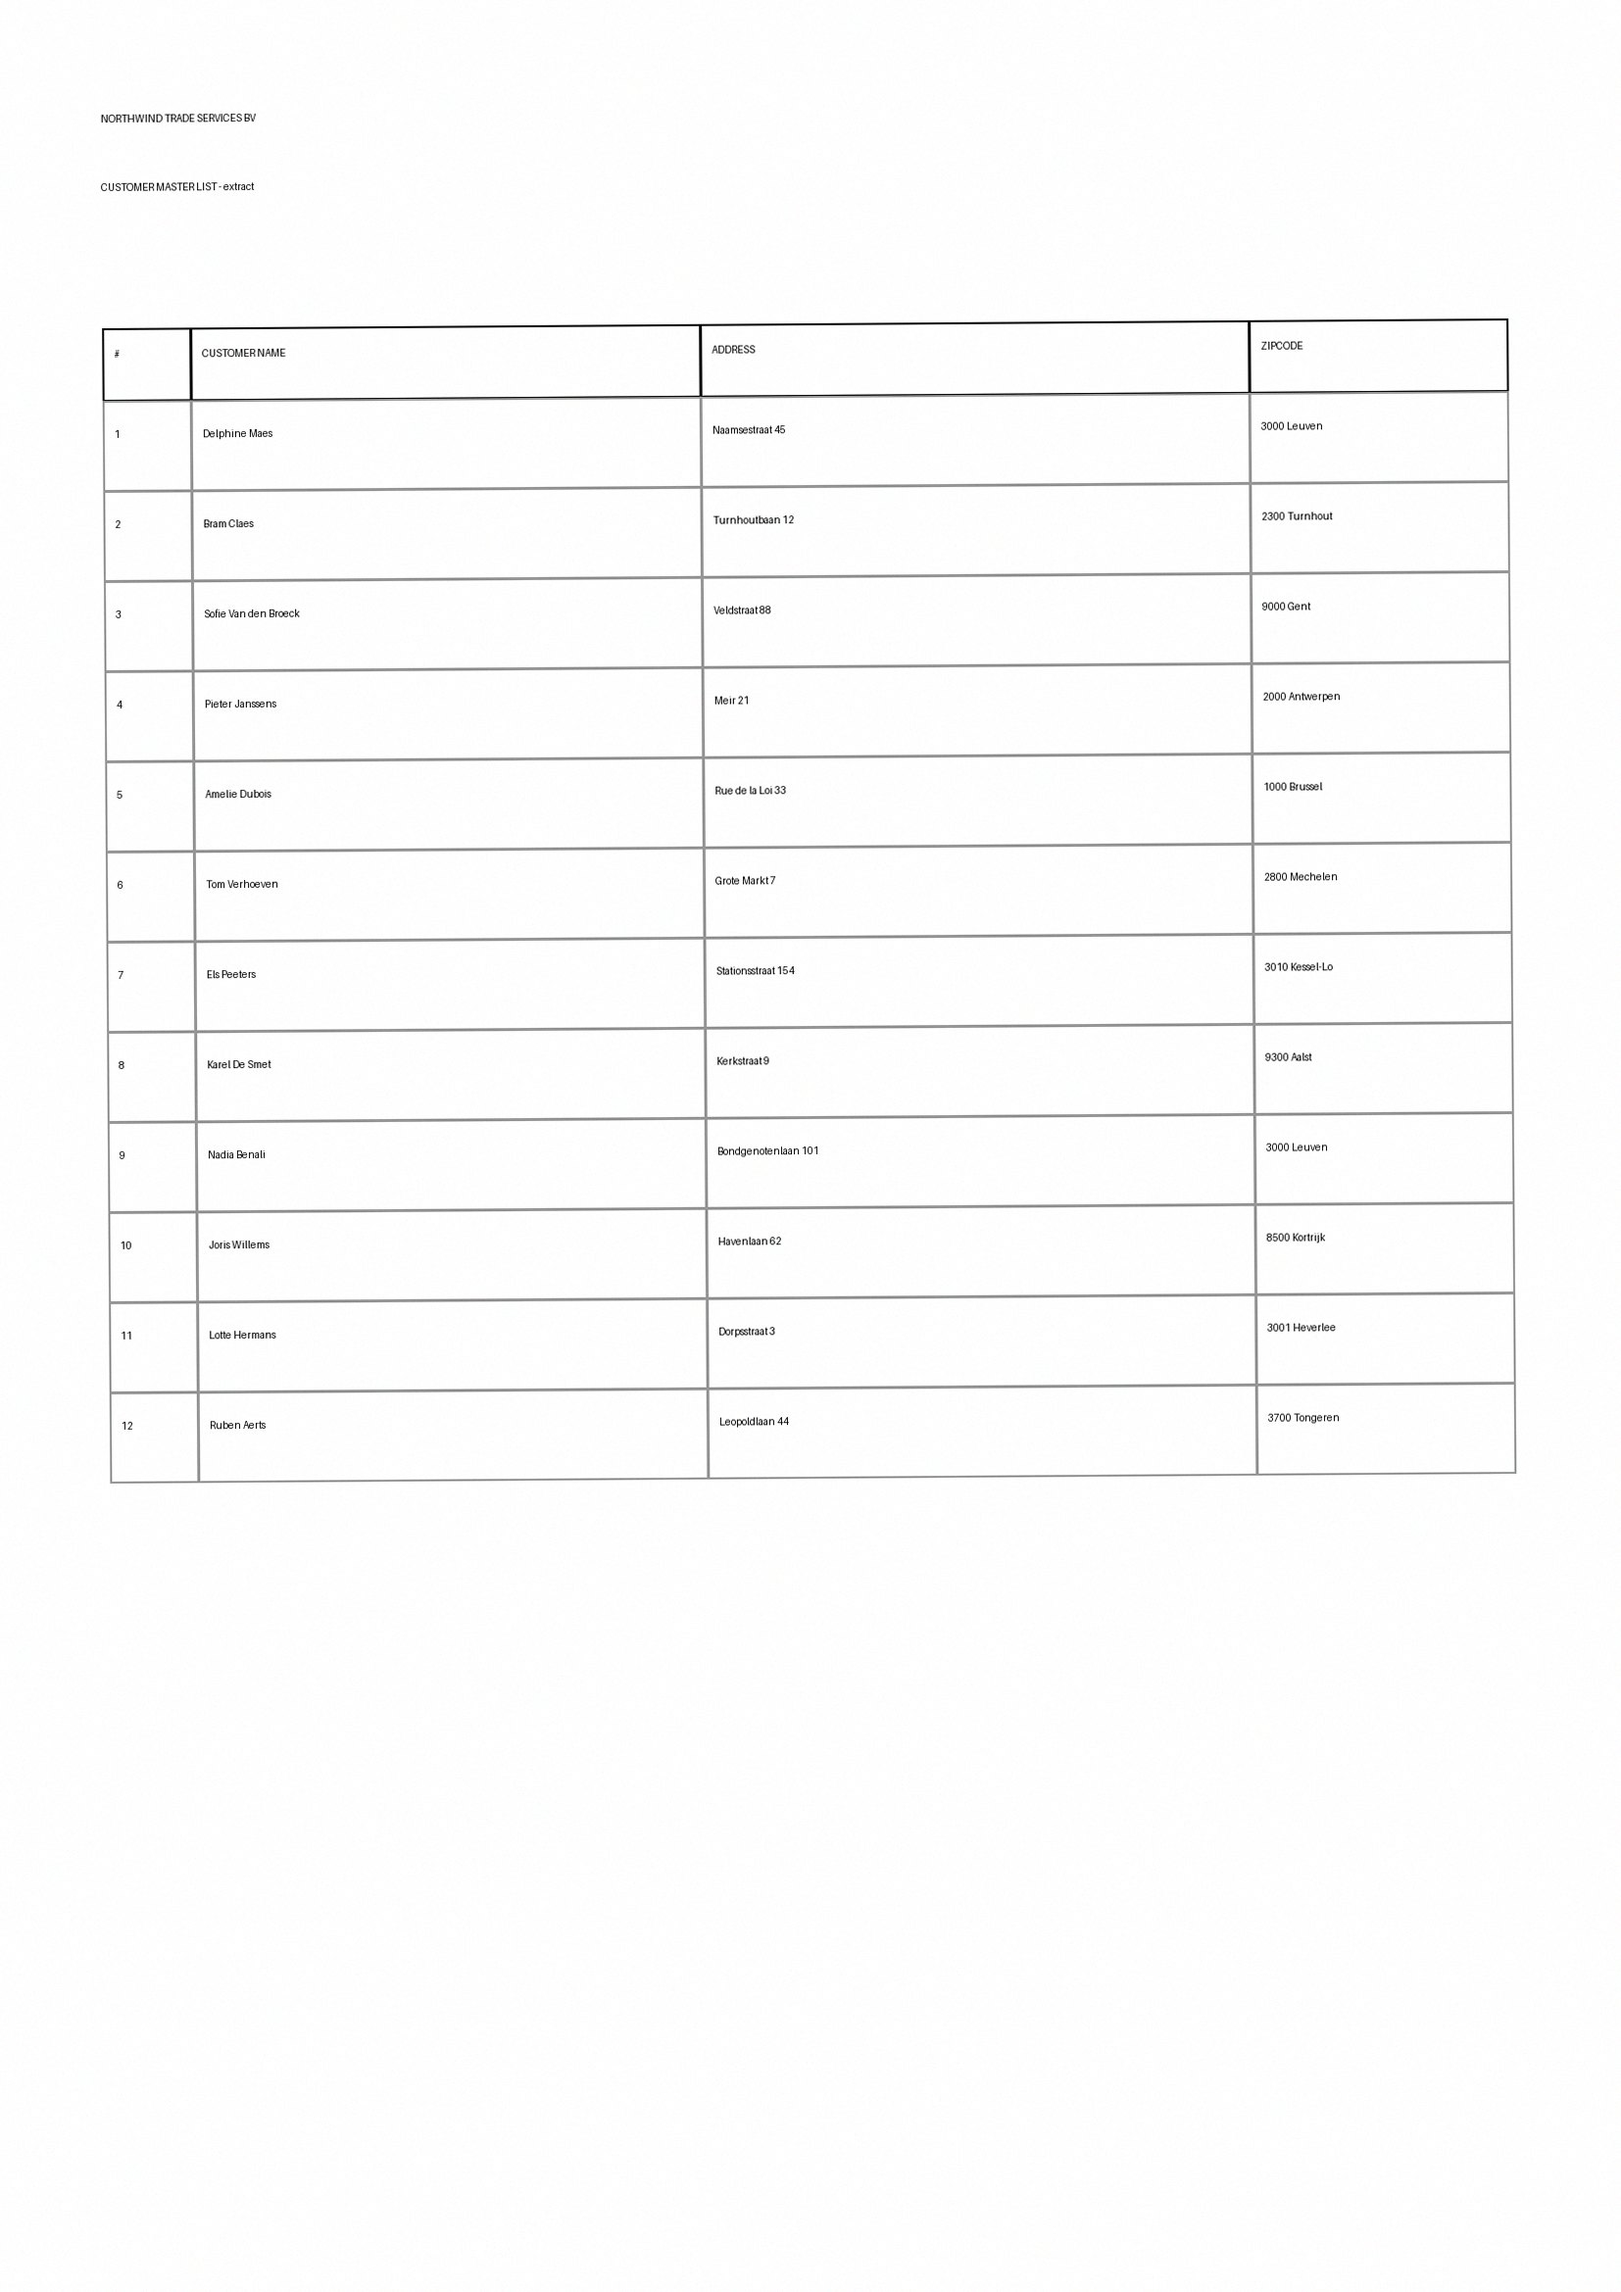
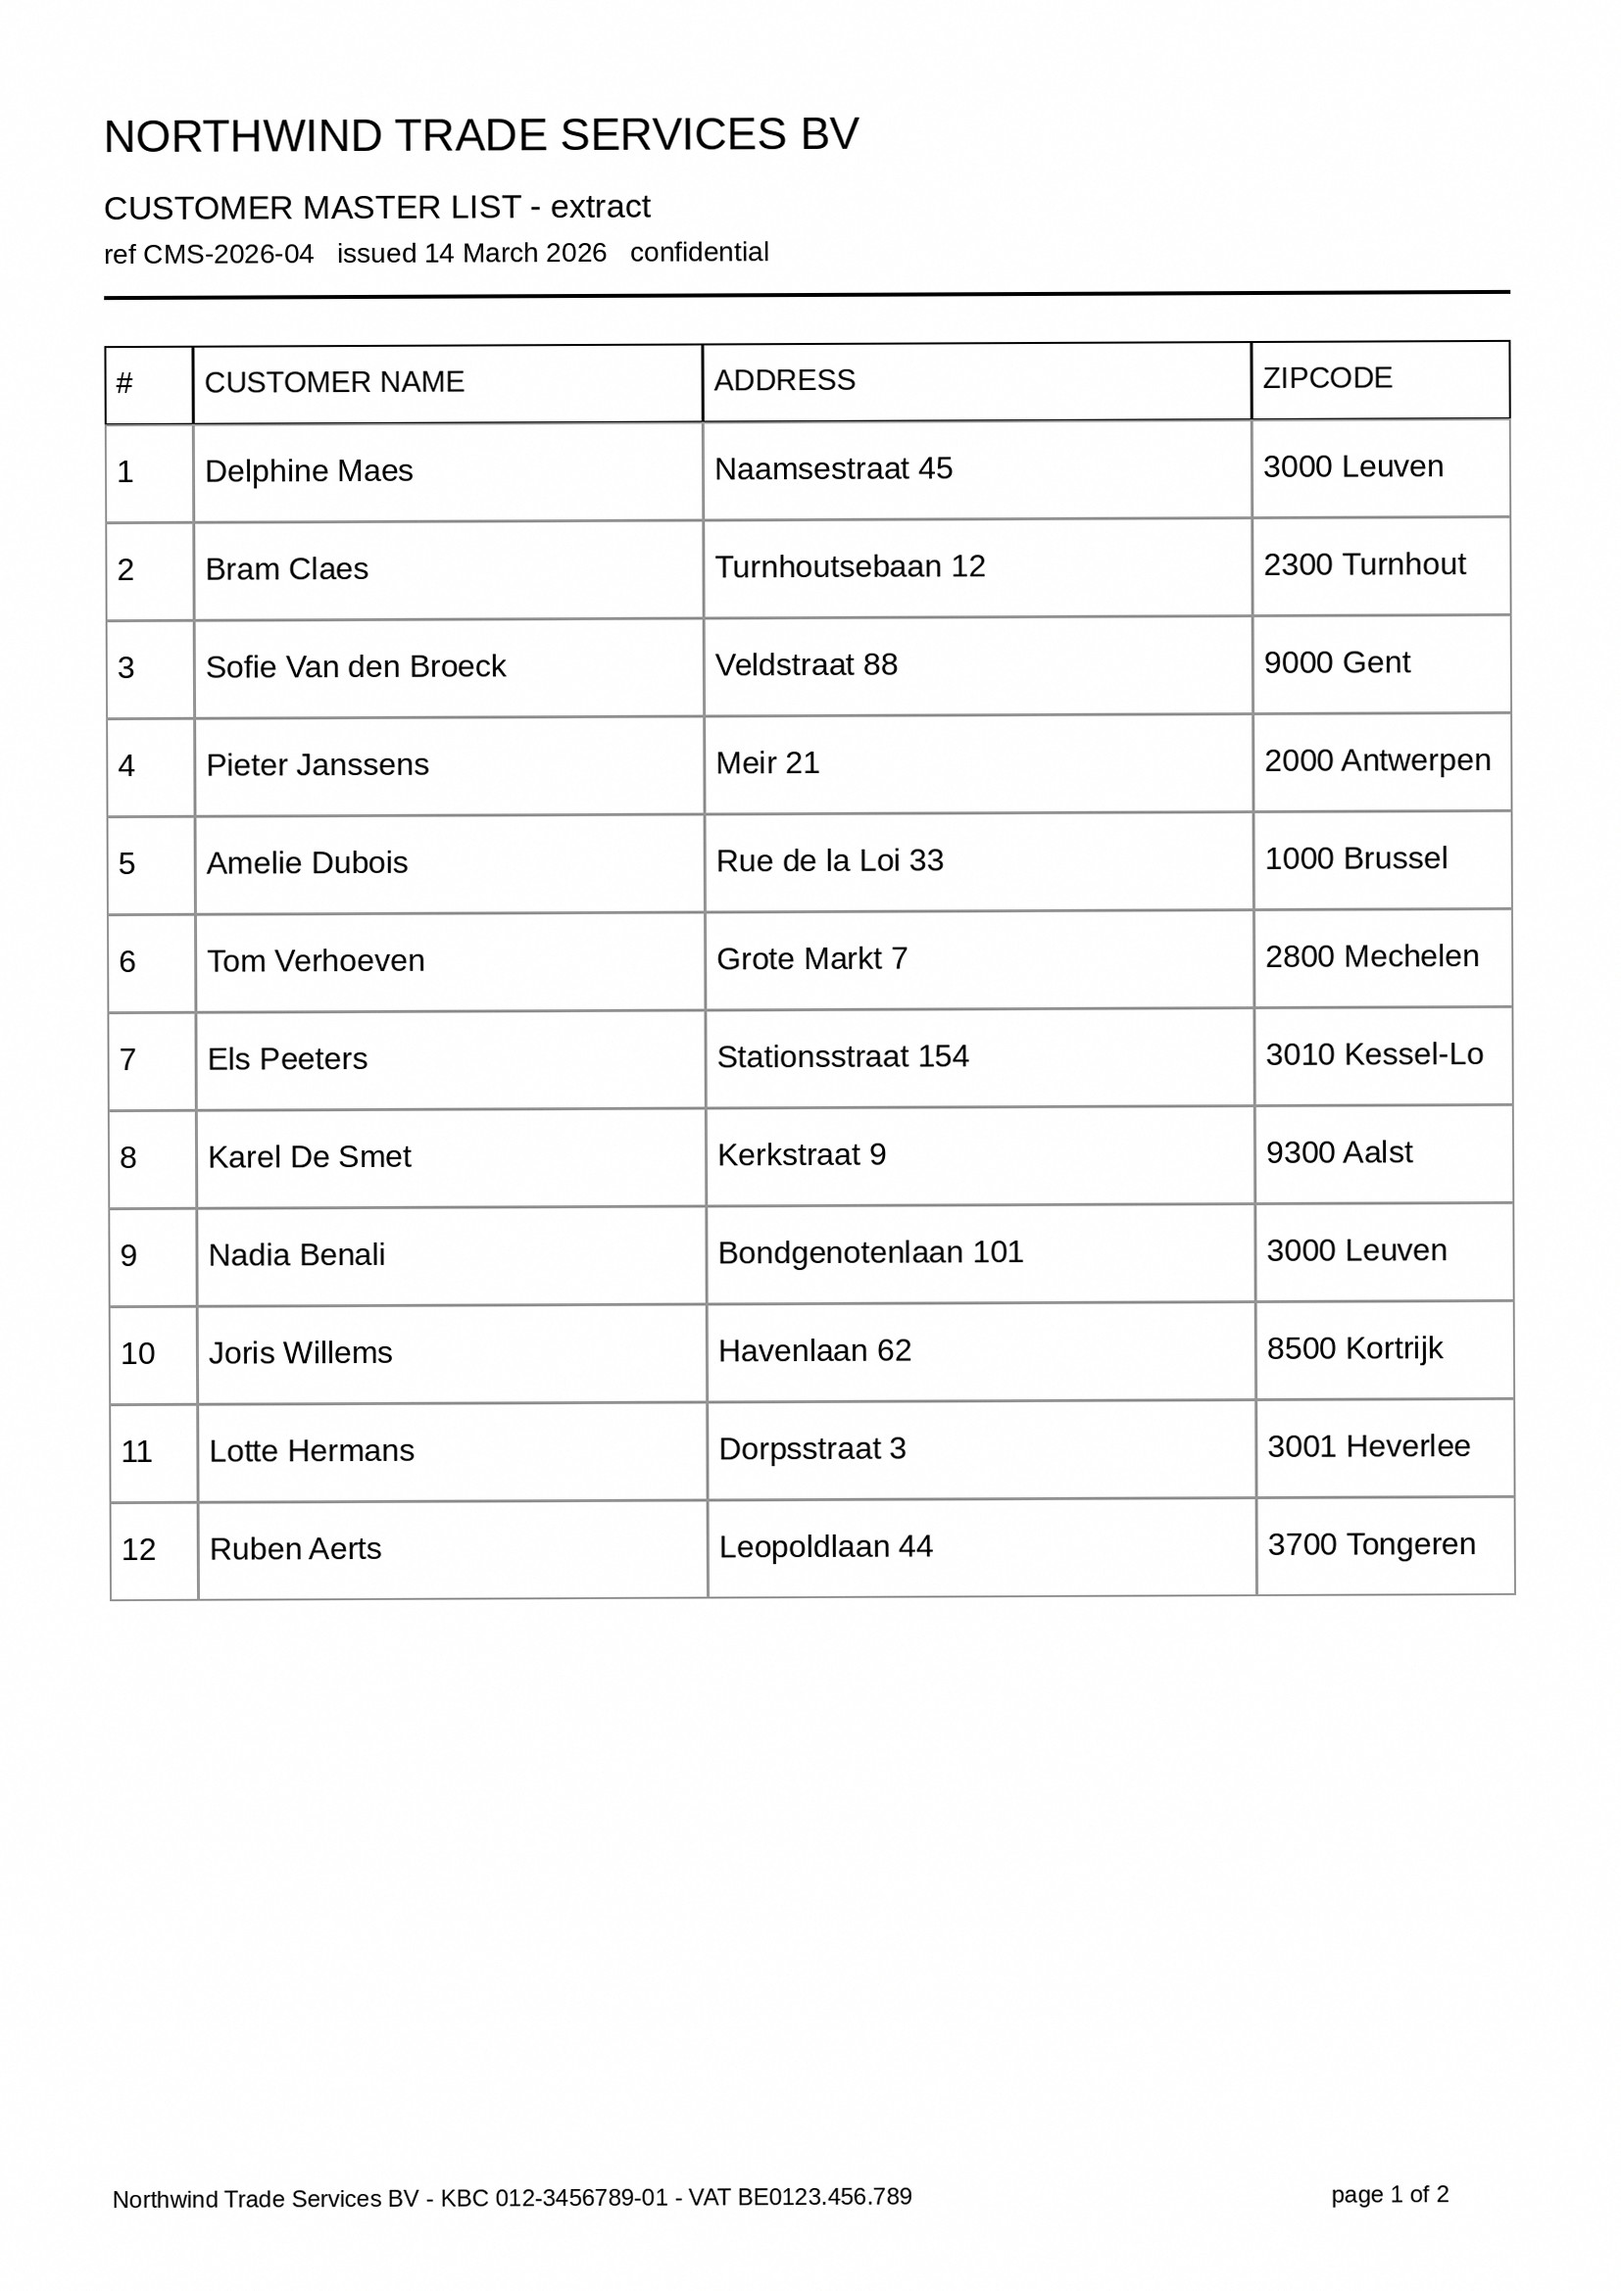
Regenerate the customer table at a legible size, add the generator script

diff --git a/tools/make_customer_table.py b/tools/make_customer_table.py
@@ -1,0 +1,96 @@
+"""Generate data/customer_table.jpg for the samples repo.
+
+Legibility matters more than realism here: this image is the input to an OCR demo, so the type is
+sized to be comfortably readable (11.5 pt at 200 dpi) while the page still carries the scan
+artefacts that make OCR non-trivial - skew, sensor noise, soft focus, closed cell boxes.
+
+Run: python3 tools/make_customer_table.py   (writes data/customer_table.jpg)
+"""
+import pathlib
+
+import numpy as np
+from PIL import Image, ImageDraw, ImageFilter, ImageFont
+
+CUSTOMERS = [
+    ("Delphine Maes", "Naamsestraat 45", "3000 Leuven"),
+    ("Bram Claes", "Turnhoutsebaan 12", "2300 Turnhout"),
+    ("Sofie Van den Broeck", "Veldstraat 88", "9000 Gent"),
+    ("Pieter Janssens", "Meir 21", "2000 Antwerpen"),
+    ("Amelie Dubois", "Rue de la Loi 33", "1000 Brussel"),
+    ("Tom Verhoeven", "Grote Markt 7", "2800 Mechelen"),
+    ("Els Peeters", "Stationsstraat 154", "3010 Kessel-Lo"),
+    ("Karel De Smet", "Kerkstraat 9", "9300 Aalst"),
+    ("Nadia Benali", "Bondgenotenlaan 101", "3000 Leuven"),
+    ("Joris Willems", "Havenlaan 62", "8500 Kortrijk"),
+    ("Lotte Hermans", "Dorpsstraat 3", "3001 Heverlee"),
+    ("Ruben Aerts", "Leopoldlaan 44", "3700 Tongeren"),
+]
+
+DPI = 200
+W, H = int(8.27 * DPI), int(11.69 * DPI)
+# matplotlib's font manager is the easy route but it is absent from a bare runtime, and Pillow's
+# default bitmap font is 11 px - it renders unreadable text at 26 "pt" and silently makes the
+# whole OCR demo look broken. Try real TrueType files first, in the order they usually exist.
+FONT_CANDIDATES = [
+    "/usr/share/fonts/liberation-sans-fonts/LiberationSans-Regular.ttf",
+    "/usr/share/fonts/truetype/liberation/LiberationSans-Regular.ttf",
+    "/usr/share/fonts/dejavu-sans-fonts/DejaVuSans.ttf",
+    "/usr/share/fonts/truetype/dejavu/DejaVuSans.ttf",
+    "/System/Library/Fonts/Supplemental/Arial.ttf",
+]
+
+
+def font(size, bold=False):
+    for path in FONT_CANDIDATES:
+        if pathlib.Path(path).exists():
+            return ImageFont.truetype(path, size)
+    try:
+        from matplotlib import font_manager
+        return ImageFont.truetype(font_manager.findfont("DejaVu Sans"), size)
+    except Exception:
+        return ImageFont.load_default(size=size)      # Pillow >= 10.1 honours the size
+
+
+COLS = [(110, 90), (200, 520), (720, 560), (1280, 264)]
+HEADERS = ["#", "CUSTOMER NAME", "ADDRESS", "ZIPCODE"]
+BODY_SIZE = 32
+
+
+def build():
+    img = Image.new("RGB", (W, H), "white")
+    d = ImageDraw.Draw(img)
+
+    d.text((110, 110), "NORTHWIND TRADE SERVICES BV", font=font(46, True), fill="black")
+    d.text((110, 190), "CUSTOMER MASTER LIST - extract", font=font(34), fill="black")
+    d.text((110, 240), "ref CMS-2026-04   issued 14 March 2026   confidential",
+           font=font(28), fill="black")
+    d.line([(110, 300), (W - 110, 300)], fill="black", width=4)
+
+    y = 350
+    for (x, w), label in zip(COLS, HEADERS):
+        d.rectangle([(x, y), (x + w, y + 80)], outline="black", width=2)
+        d.text((x + 12, y + 20), label, font=font(30, True), fill="black")
+    y += 80
+
+    for number, (name, addr, zipc) in enumerate(CUSTOMERS, start=1):
+        for (x, w), value in zip(COLS, (str(number), name, addr, zipc)):
+            d.rectangle([(x, y), (x + w, y + 100)], outline=(150, 150, 150), width=2)
+            d.text((x + 12, y + 30), value, font=font(BODY_SIZE), fill="black")
+        y += 100
+
+    d.text((110, H - 110), "Northwind Trade Services BV - KBC 012-3456789-01 - VAT BE0123.456.789",
+           font=font(24), fill="black")
+    d.text((W - 300, H - 110), "page 1 of 2", font=font(24), fill="black")
+
+    img = img.rotate(0.25, resample=Image.BICUBIC, expand=False, fillcolor="white")
+    base = np.asarray(img).astype(np.int16)
+    noise = np.random.default_rng(7).normal(0, 2, base.shape).astype(np.int16)
+    return Image.fromarray(np.clip(base + noise, 0, 255).astype(np.uint8)).filter(
+        ImageFilter.GaussianBlur(0.15))
+
+
+if __name__ == "__main__":
+    out = pathlib.Path(__file__).resolve().parents[1] / "data" / "customer_table.jpg"
+    out.parent.mkdir(parents=True, exist_ok=True)
+    build().save(out, format="JPEG", quality=90, optimize=True)
+    print("wrote %s (%d KB, %dx%d)" % (out, out.stat().st_size // 1024, *Image.open(out).size))
